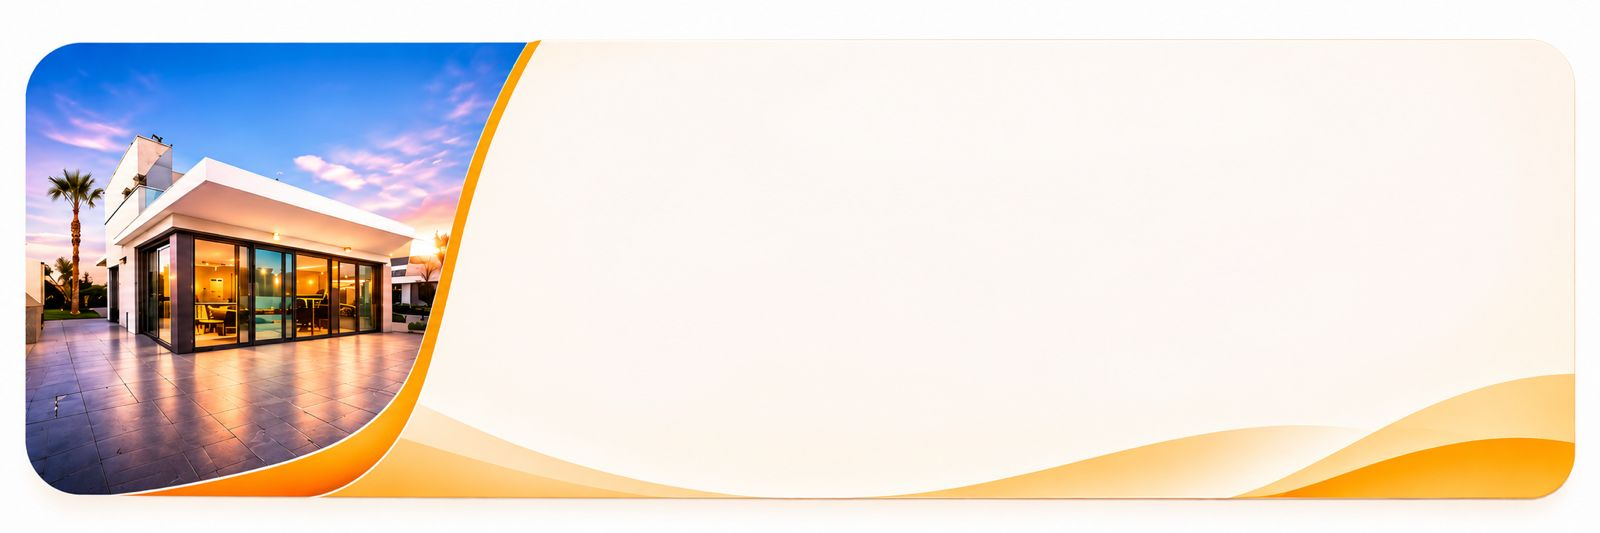
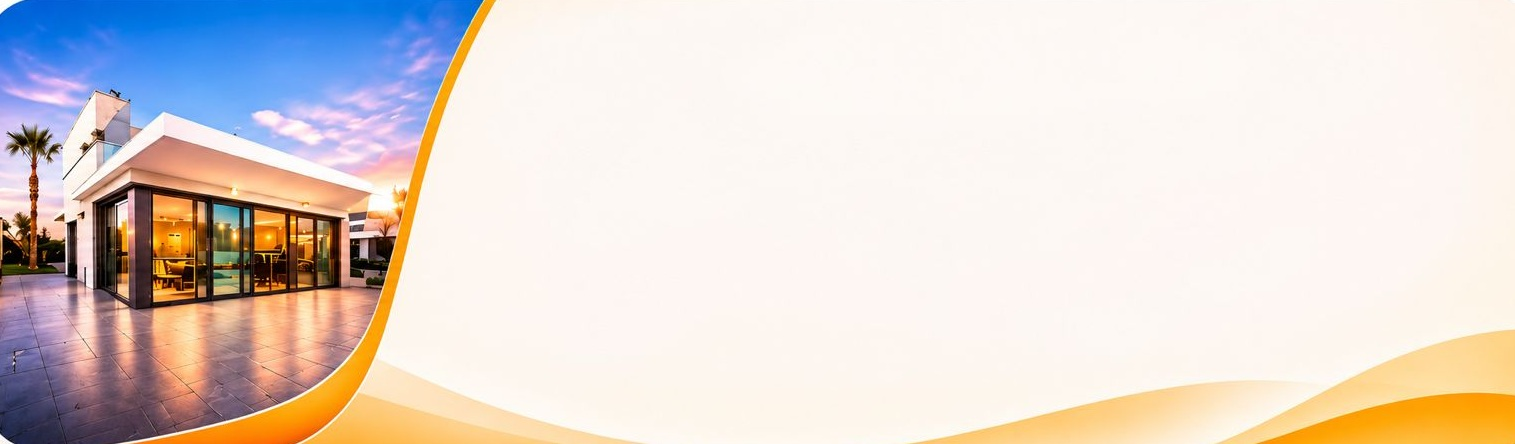
ui design workign onit

diff --git a/src/components/OurPromise.css b/src/components/OurPromise.css
@@ -1,82 +1,79 @@
 .our-promise-section {
-  padding: 20px 0 20px 0;
-  background-color: #ffffff;
+  padding: 30px 0 25px 0;
+  background-color: var(--color-background, #FFF7EC);
+}
+
+.our-promise-section .container {
+  width: 90% !important;
+  max-width: 1720px;
+  margin: 0 auto;
 }
 
 .promise-banner {
-  background-color: #f6f8fb;
-  /* Matches the very light bluish grey from mockup */
-  border-radius: 16px;
+  background: #FBF4EC url('../assets/ourpromise.jpeg') no-repeat left center / cover;
+  border-radius: 20px;
   display: flex;
+  position: relative;
   overflow: hidden;
-  position: relative;
-  min-height: 220px;
+  box-shadow: 0 10px 30px rgba(74, 44, 23, 0.08);
+  border: 1px solid rgba(212, 160, 23, 0.22);
+  min-height: 250px;
 }
 
-.promise-image-wrapper {
-  flex: 0 0 25%;
-  position: relative;
-}
-
-.promise-image-wrapper img {
-  width: 100%;
-  height: 100%;
-  object-fit: cover;
-  object-position: center;
-}
-
-.promise-image-wrapper::after {
-  content: '';
-  position: absolute;
-  top: 0;
-  right: -1px;
-  width: 250px;
-  height: 100%;
-  background: linear-gradient(to left, rgba(246, 248, 251, 1) 0%, rgba(246, 248, 251, 0.8) 30%, rgba(246, 248, 251, 0) 100%);
-  z-index: 2;
+.promise-visual-space {
+  flex: 0 0 30%;
+  min-width: 220px;
+  max-width: 440px;
+  pointer-events: none;
 }
 
 .promise-content {
   flex: 1;
   display: flex;
   align-items: center;
-  padding: 32px 32px 32px 10px;
-  background-color: #f6f8fb;
-  z-index: 3;
+  padding: 32px 36px 32px 12px;
+  background: transparent;
+  gap: 20px;
+  z-index: 2;
 }
 
 .promise-text-area {
-  flex: 0 0 28%;
-  padding-right: 32px;
+  flex: 0 0 32%;
+  min-width: 200px;
+  padding-right: 20px;
 }
 
 .promise-text-area h2 {
-  color: var(--color-primary);
-  /* #1c1366 */
+  color: #34170A;
   font-size: 28px;
   font-weight: 800;
-  margin-bottom: 6px;
+  line-height: 1.2;
+  margin-bottom: 8px;
+  letter-spacing: -0.01em;
 }
 
 .promise-text-area .divider-line {
-  width: 32px;
+  width: 36px;
   height: 3px;
-  background-color: var(--color-primary-light);
+  background: linear-gradient(90deg, #D4A017, #C86623);
+  border-radius: 2px;
   margin-bottom: 12px;
 }
 
 .promise-text-area p {
-  color: #4b5563;
-  font-size: 14px;
+  color: #5A4234;
+  font-size: 13.5px;
   line-height: 1.6;
   font-weight: 500;
-  margin-bottom: 16px;
+  margin-bottom: 14px;
 }
 
 .promise-text-area .team-sign {
-  color: var(--color-primary-light);
-  font-weight: 600;
-  font-size: 14px;
+  display: inline-block;
+  color: #C86623;
+  font-weight: 700;
+  font-size: 13px;
+  letter-spacing: 0.01em;
 }
 
 .promise-stats-area {
@@ -84,6 +81,7 @@
   display: flex;
   align-items: center;
   justify-content: space-between;
+  gap: 16px;
 }
 
 .promise-stat {
@@ -93,6 +91,7 @@
   align-items: center;
   text-align: center;
   position: relative;
+  padding: 0 8px;
 }
 
 .promise-stat:not(:last-child)::after {
@@ -102,55 +101,78 @@
   top: 15%;
   height: 70%;
   width: 1px;
-  background-color: rgba(0, 0, 0, 0.08);
-  /* Faint vertical divider line */
+  background-color: rgba(212, 160, 23, 0.28);
 }
 
 .promise-stat .stat-icon {
-  margin-bottom: 12px;
+  margin-bottom: 10px;
+  display: flex;
+  align-items: center;
+  justify-content: center;
 }
 
 .promise-stat h3 {
-  color: var(--color-primary);
-  font-size: 36px;
+  color: #34170A;
+  font-size: 34px;
   font-weight: 800;
+  line-height: 1.1;
   margin-bottom: 4px;
 }
 
 .promise-stat span {
-  color: #4b5563;
-  font-size: 14px;
+  color: #5A4234;
+  font-size: 13px;
   font-weight: 600;
-  line-height: 1.4;
+  line-height: 1.35;
 }
 
-@media (max-width: 1024px) {
+@media (max-width: 1200px) {
+  .promise-visual-space {
+    flex: 0 0 28%;
+    min-width: 180px;
+  }
+
+  .promise-text-area {
+    flex: 0 0 34%;
+  }
+
+  .promise-stat h3 {
+    font-size: 28px;
+  }
+
+  .promise-stat span {
+    font-size: 12px;
+  }
+}
+
+@media (max-width: 992px) {
   .promise-banner {
     flex-direction: column;
+    background: #FBF4EC;
   }
 
-  .promise-image-wrapper {
-    height: 250px;
-  }
-
-  .promise-image-wrapper::after {
-    background: linear-gradient(to top, rgba(246, 248, 251, 1) 0%, rgba(246, 248, 251, 0) 100%);
+  .promise-visual-space {
+    display: block;
     width: 100%;
-    height: 100px;
-    bottom: -1px;
-    top: auto;
-    left: 0;
+    height: 220px;
+    min-width: 100%;
+    max-width: 100%;
+    background: url('../assets/ourpromise.jpeg') no-repeat left center / cover;
+    border-bottom: 2px solid rgba(212, 160, 23, 0.25);
   }
 
   .promise-content {
     flex-direction: column;
-    padding: 32px;
+    padding: 28px 24px 32px 24px;
+    text-align: center;
+    gap: 28px;
   }
 
   .promise-text-area {
-    margin-bottom: 40px;
-    text-align: center;
+    flex: unset;
+    width: 100%;
     padding-right: 0;
+    text-align: center;
   }
 
   .promise-text-area .divider-line {
@@ -159,56 +181,39 @@
 
   .promise-stats-area {
     width: 100%;
-    flex-wrap: wrap;
-    gap: 32px;
+    display: grid;
+    grid-template-columns: repeat(4, 1fr);
+    gap: 16px;
+  }
+}
+
+@media (max-width: 640px) {
+  .promise-visual-space {
+    height: 180px;
   }
 
-  .promise-stat {
-    flex: 0 0 45%;
+  .promise-stats-area {
+    grid-template-columns: repeat(2, 1fr);
+    gap: 20px 12px;
   }
 
   .promise-stat:not(:last-child)::after {
     display: none;
   }
-}
-
-@media (max-width: 768px) {
-  .promise-stats-area {
-    display: grid;
-    grid-template-columns: 1fr 1fr;
-    gap: 24px 16px;
-  }
-  
-  .promise-stat {
-    flex: unset;
-    width: 100%;
-  }
 
   .promise-stat h3 {
-    font-size: 26px;
+    font-size: 24px;
   }
-  
+
   .promise-stat span {
     font-size: 12px;
   }
-  
-  .promise-stat .stat-icon svg {
-    width: 30px;
-    height: 30px;
-  }
-}
 
-@media (max-width: 480px) {
-  .promise-stat h3 {
-    font-size: 22px;
+  .promise-text-area h2 {
+    font-size: 24px;
   }
-  
-  .promise-stat span {
-    font-size: 11px;
-  }
-  
-  .promise-stat .stat-icon svg {
-    width: 26px;
-    height: 26px;
+
+  .promise-text-area p {
+    font-size: 13px;
   }
 }

diff --git a/src/components/OurPromise.jsx b/src/components/OurPromise.jsx
@@ -7,19 +7,18 @@ const OurPromise = () => {
       <div className="container">
         <div className="promise-banner">
           
-          <div className="promise-image-wrapper">
-            <img 
-              src="https://images.unsplash.com/photo-1512917774080-9991f1c4c750?auto=format&fit=crop&q=80&w=1000" 
-              alt="Gated Community Entrance" 
-            />
-          </div>
+          {/* Visual spacer on desktop reserving the left section for the villa artwork */}
+          <div className="promise-visual-space" aria-hidden="true"></div>
 
           <div className="promise-content">
             
             <div className="promise-text-area">
               <h2>Our Promise</h2>
               <div className="divider-line"></div>
-              <p>We don't just build plots and projects, we build communities, relationships and a better future for generations to come.</p>
+              <p>
+                We don't just build plots and projects, we build communities,
+                relationships and a better future for generations to come.
+              </p>
               <span className="team-sign">- Niu Gen India Infras Team</span>
             </div>
 
@@ -27,17 +26,17 @@ const OurPromise = () => {
               
               <div className="promise-stat">
                 <div className="stat-icon">
-                  <svg width="40" height="40" viewBox="0 0 24 24" fill="none" stroke="var(--color-primary-light)" strokeWidth="1.8" strokeLinecap="round" strokeLinejoin="round">
+                  <svg width="36" height="36" viewBox="0 0 24 24" fill="none" stroke="#C86623" strokeWidth="1.8" strokeLinecap="round" strokeLinejoin="round">
                     <rect x="3" y="4" width="18" height="18" rx="2" ry="2"></rect>
                     <line x1="16" y1="2" x2="16" y2="6"></line>
                     <line x1="8" y1="2" x2="8" y2="6"></line>
                     <line x1="3" y1="10" x2="21" y2="10"></line>
-                    <circle cx="8" cy="14" r="1" fill="var(--color-primary-light)"></circle>
-                    <circle cx="12" cy="14" r="1" fill="var(--color-primary-light)"></circle>
-                    <circle cx="16" cy="14" r="1" fill="var(--color-primary-light)"></circle>
-                    <circle cx="8" cy="18" r="1" fill="var(--color-primary-light)"></circle>
-                    <circle cx="12" cy="18" r="1" fill="var(--color-primary-light)"></circle>
-                    <circle cx="16" cy="18" r="1" fill="var(--color-primary-light)"></circle>
+                    <circle cx="8" cy="14" r="1" fill="#C86623"></circle>
+                    <circle cx="12" cy="14" r="1" fill="#C86623"></circle>
+                    <circle cx="16" cy="14" r="1" fill="#C86623"></circle>
+                    <circle cx="8" cy="18" r="1" fill="#C86623"></circle>
+                    <circle cx="12" cy="18" r="1" fill="#C86623"></circle>
+                    <circle cx="16" cy="18" r="1" fill="#C86623"></circle>
                   </svg>
                 </div>
                 <h3>10+</h3>
@@ -46,7 +45,7 @@ const OurPromise = () => {
 
               <div className="promise-stat">
                 <div className="stat-icon">
-                  <svg width="40" height="40" viewBox="0 0 24 24" fill="none" stroke="var(--color-primary-light)" strokeWidth="1.8" strokeLinecap="round" strokeLinejoin="round">
+                  <svg width="36" height="36" viewBox="0 0 24 24" fill="none" stroke="#C86623" strokeWidth="1.8" strokeLinecap="round" strokeLinejoin="round">
                     <path d="M4 22h14a2 2 0 0 0 2-2V7.5L14.5 2H6a2 2 0 0 0-2 2v4"></path>
                     <polyline points="14 2 14 8 20 8"></polyline>
                     <path d="M2 15h10"></path>
@@ -59,7 +58,7 @@ const OurPromise = () => {
 
               <div className="promise-stat">
                 <div className="stat-icon">
-                  <svg width="40" height="40" viewBox="0 0 24 24" fill="none" stroke="var(--color-primary-light)" strokeWidth="1.8" strokeLinecap="round" strokeLinejoin="round">
+                  <svg width="36" height="36" viewBox="0 0 24 24" fill="none" stroke="#C86623" strokeWidth="1.8" strokeLinecap="round" strokeLinejoin="round">
                     <path d="M17 21v-2a4 4 0 0 0-4-4H5a4 4 0 0 0-4 4v2"></path>
                     <circle cx="9" cy="7" r="4"></circle>
                     <path d="M23 21v-2a4 4 0 0 0-3-3.87"></path>
@@ -73,7 +72,7 @@ const OurPromise = () => {
 
               <div className="promise-stat">
                 <div className="stat-icon">
-                  <svg width="40" height="40" viewBox="0 0 24 24" fill="none" stroke="var(--color-primary-light)" strokeWidth="1.8" strokeLinecap="round" strokeLinejoin="round">
+                  <svg width="36" height="36" viewBox="0 0 24 24" fill="none" stroke="#C86623" strokeWidth="1.8" strokeLinecap="round" strokeLinejoin="round">
                     <path d="M15 21v-2a4 4 0 0 0-4-4H5a4 4 0 0 0-4 4v2"></path>
                     <circle cx="8.5" cy="8" r="4"></circle>
                     <polygon points="19 7 20.5 10 24 10 21.2 12 22.3 15 19.5 13.2 16.7 15 17.8 12 15 10 18.5 10" strokeLinejoin="round"></polygon>
